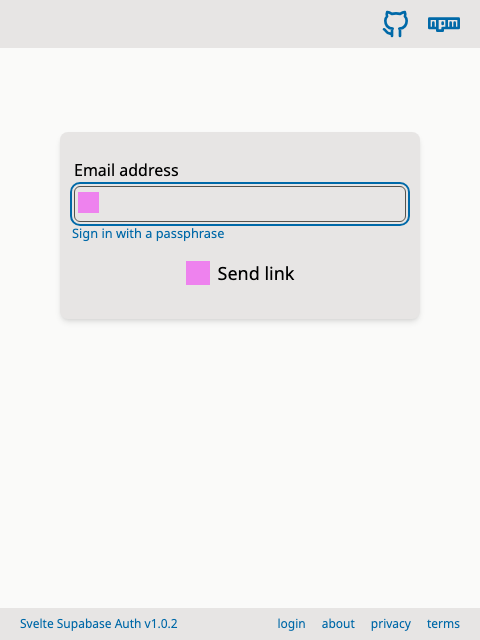
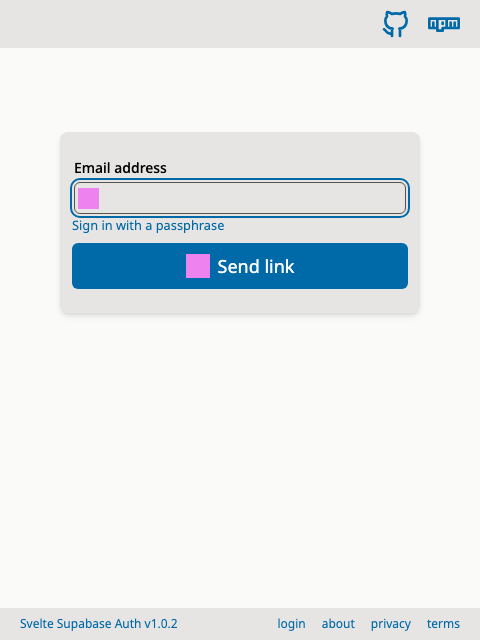
feat: move default styles from external css file to components

Changed region(s): [[0.125, 0.25, 0.875, 0.4688]]

diff --git a/packages/main/src/lib/supabase-auth.css b/packages/main/src/lib/supabase-auth.css
@@ -1,113 +1,1 @@
-/* Supabase Auth UI Default Styles */
-/* Import this CSS file if you want to use the default visual styling */
-
-.sA button {
-  color: inherit;
-  background: none;
-  border-color: var(--border);
-  border-style: solid;
-  border-width: 1px;
-  cursor: pointer;
-  text-align: center;
-  border-radius: var(--radius);
-  font-family: inherit;
-  font-weight: inherit;
-}
-
-.sA button.primary {
-  background: var(--primary);
-  border-color: transparent;
-  color: var(--primary-fg);
-}
-
-.sA button.large {
-  font-size: 1rem;
-  line-height: 1.5rem;
-}
-
-.sA button.medium {
-  font-size: 0.875rem;
-  line-height: 1.25rem;
-}
-
-/* LinkButton styles */
-.sA button:is([onclick]) {
-  cursor: pointer;
-  font-size: 0.875rem;
-  line-height: 1.25rem;
-  color: var(--link);
-}
-
-/* Input styles */
-.sA label {
-  font-weight: 500;
-  font-size: 0.875rem;
-  line-height: 1.25rem;
-}
-
-.sA input {
-  font-size: 0.9rem;
-  font-weight: 300;
-  background: transparent;
-  border-radius: var(--radius);
-  border-style: solid;
-  border-width: 1px;
-  border-color: var(--border);
-  box-sizing: border-box;
-}
-
-.sA .icon {
-  color: var(--muted-fg);
-}
-
-.sA button:hover .icon,
-.sA button:focus .icon,
-.sA button:active .icon,
-.sA label:has(input:focus) .icon,
-.sA label:has(input:active) .icon {
-  color: inherit;
-}
-.sA button:disabled {
-  opacity: 0.4;
-}
-
-.sA .primary .icon {
-  color: var(--primary-fg);
-}
-
-.sA .input {
-  font-size: 0.875rem;
-  line-height: 1.25rem;
-}
-
-/* Text styles */
-.sA .danger {
-  color: var(--danger);
-}
-
-.sA .warning {
-  color: var(--warning);
-}
-
-.sA .success {
-  color: var(--success);
-}
-
-/* View-specific styles */
-.sA .divider {
-  color: var(--muted-fg);
-  font-size: 80%;
-}
-
-.sA .divider::before,
-.sA .divider::after {
-  border-bottom-style: solid;
-  border-bottom-width: 1px;
-  top: 50%;
-}
-
-.sA li {
-  font-size: 90%;
-  border: 1px solid var(--border);
-  border-radius: var(--radius);
-}
+/* @deprecated: Svelte Supabase Auth default styles have been incorporated into components */

diff --git a/packages/main/src/lib/Auth.svelte b/packages/main/src/lib/Auth.svelte
@@ -188,7 +188,18 @@
     padding: var(--input-padding);
     border: 1px solid var(--border);
     border-radius: var(--radius);
+    font-size: .875rem;
+    line-height: 1.25rem;
+    font-weight: 300;
+    background: transparent;
+    box-sizing: border-box;
   }
+  :global(.sA label) {
+    font-weight: 500;
+    font-size: .875rem;
+    line-height: 1.25rem;
+  }
+
   :global(.sA form) {
     display: flex;
     gap: var(--gap);
@@ -204,6 +215,9 @@
     display: flex;
     align-items: center;
     gap: var(--gap);
+    font-size: 90%;
+    border: 1px solid var(--border);
+    border-radius: var(--radius);
   }
   :global(.sA ul li span) {
     flex: 1;
@@ -214,6 +228,13 @@
   :global(.sA .warning) {
     color: var(--warning);
   }
+  :global(.sA .success) {
+    color: var(--success);
+  }
+  :global(.sA .primary .icon) {
+    color: var(--primary-fg);
+  }
+
   :global(.sA h3) {
     margin: 0;
   }
@@ -226,11 +247,19 @@
     outline-offset: 2px;
   }
 
+  :global(.sA label:has(input:focus) .icon),
+  :global(.sA label:has(input:active) .icon) {
+    color: inherit;
+  }
+
+
   .divider {
     color: var(--muted-fg);
     width: 100%;
     align-items: center;
     white-space: nowrap;
+    font-size: 80%;
+    color: var(--muted-fg);
     font-size: 80%;
   }
 
@@ -245,6 +274,8 @@
     position: relative;
     display: inline-block;
     width: 50%;
+    border-bottom-style: solid;
+    border-bottom-width: 1px;
   }
 
 </style>

diff --git a/packages/main/src/lib/elements/Button.svelte b/packages/main/src/lib/elements/Button.svelte
@@ -61,6 +61,16 @@
     position: relative;
     padding: 0.2rem 0.5rem;
     cursor: pointer;
+    color: inherit;
+    background: none;
+    border-color: var(--border);
+    border-style: solid;
+    border-width: 1px;
+    cursor: pointer;
+    text-align: center;
+    border-radius: var(--radius);
+    font-family: inherit;
+    font-weight: inherit;
   }
 
   button.large {
@@ -68,6 +78,8 @@
     padding-bottom: 0.5rem;
     padding-left: 1rem;
     padding-right: 1rem;
+    font-size: 1rem;
+    line-height: 1.5rem;
   }
 
   button.medium {
@@ -75,6 +87,8 @@
     padding-bottom: 0.5rem;
     padding-left: 1rem;
     padding-right: 1rem;
+    font-size: 0.875rem;
+    line-height: 1.25rem;
   }
 
   button.block {
@@ -83,4 +97,32 @@
     justify-content: center;
     width: 100%;
   }
+
+  button.primary {
+    background: var(--primary);
+    border-color: transparent;
+    color: var(--primary-fg);
+  }
+  button:is([onclick]) {
+    cursor: pointer;
+    font-size: 0.875rem;
+    line-height: 1.25rem;
+    color: var(--link);
+  }
+
+  button:hover .icon,
+  button:focus .icon,
+  button:active .icon {
+    color: inherit;
+  }
+
+  button:disabled {
+    opacity: 0.4;
+  }
+
+  button.primary .icon {
+    color: var(--primary-fg);
+  }
+
+
 </style>

diff --git a/packages/main/src/routes/testing/+page.svelte b/packages/main/src/routes/testing/+page.svelte
@@ -25,7 +25,7 @@
 
 {#if browser}
 
-<div class="mx-auto mt-6 w-120 max-w-full p-5">
+<div class="mx-auto mt-6 w-120 max-w-full p-5 login-wrapper">
   <div class="py-6 px-3 m-4 shadow-md rounded-lg bg-stone-200 dark:bg-stone-800">
     <Auth {supabaseClient} {providers} {authOptions} />
   </div>

diff --git a/packages/main/src/routes/+page.svelte b/packages/main/src/routes/+page.svelte
@@ -12,7 +12,6 @@
   import { languages } from './languages'
   import GearIcon from 'virtual:icons/lucide/settings'
   import Options from './Options.svelte';
-	import '$lib/supabase-auth.css';
 
   let locale = $state('en')
 

diff --git a/.changeset/dull-parks-watch.md b/.changeset/dull-parks-watch.md
@@ -1,0 +1,5 @@
+---
+"svelte-supabase-auth": minor
+---
+
+Move default styles from external css file to components.
